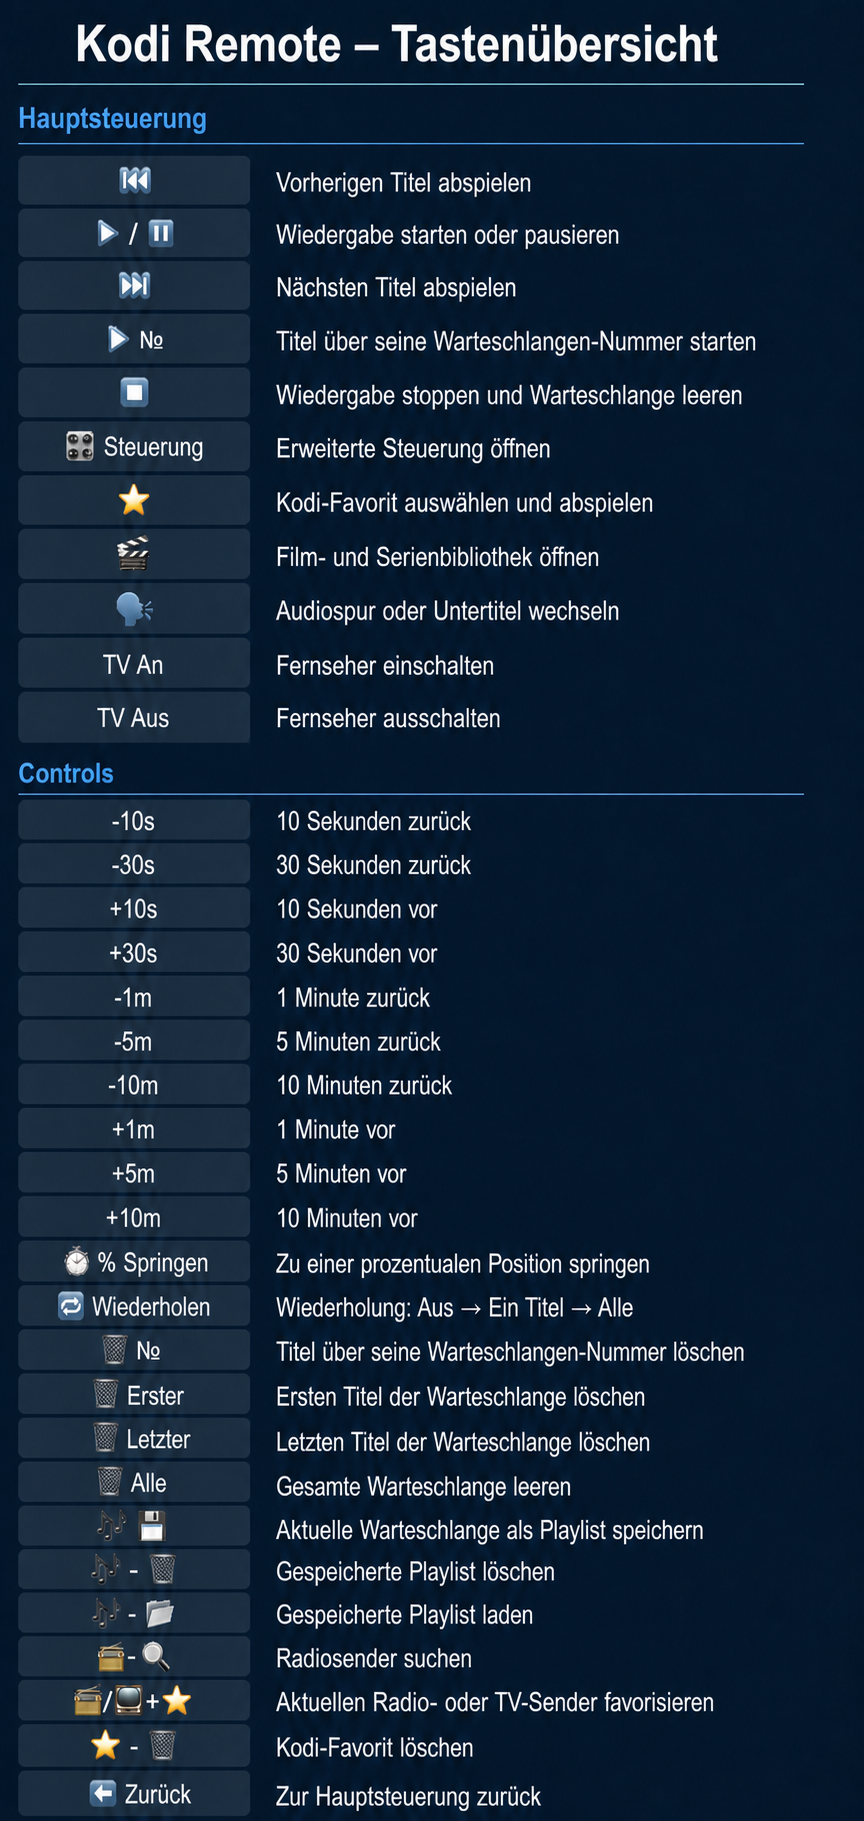
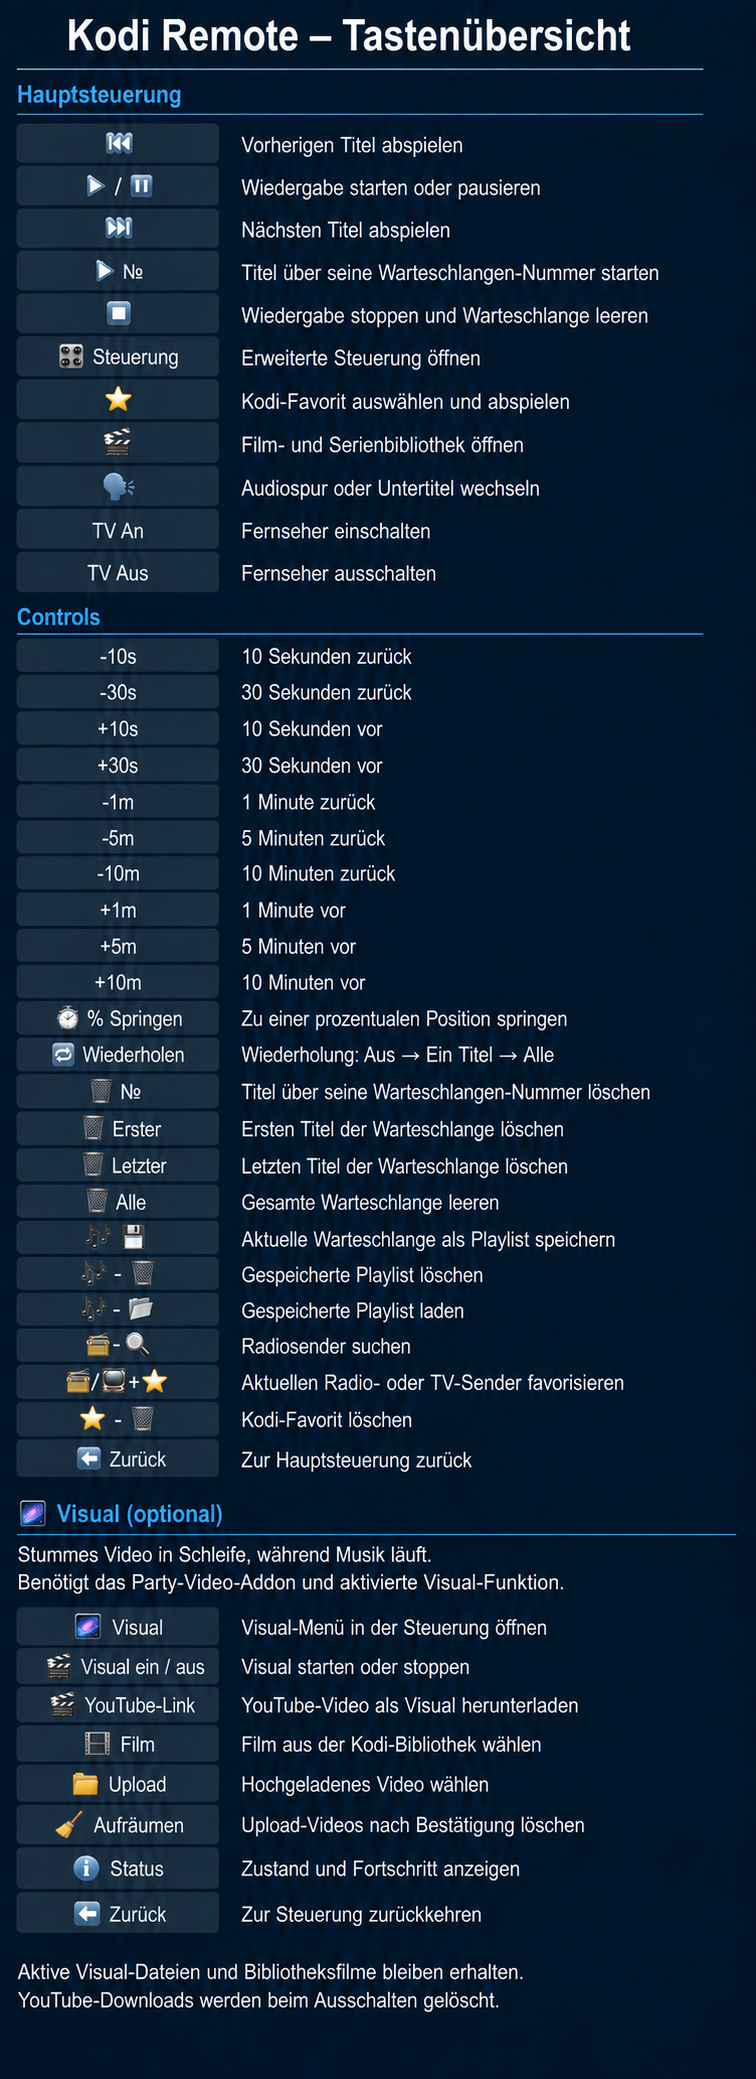
docs: Document the Visual page and refresh button references
Claude-Session: https://claude.ai/code/session_013HfAk942FJDZBgmta9n6gp

Changed region(s): [[0.0, 0.0, 0.9127, 1.0], [0.791, 0.5228, 0.8519, 0.5535]]

diff --git a/README.md b/README.md
@@ -101,6 +101,17 @@ Enable Kodi's web server under `Settings -> Services -> Control`. `KODI_USER`,
 `KODI_PASS` and `KODI_PORT` must exactly match that configuration; otherwise the
 bot can show a queued title but cannot start playback or display its runtime.
 
+The optional [Party Video](https://github.com/willheisenberg/visualization-partyvideo)
+addon shows a muted video in an endless loop while music plays. Install it on the
+Kodi host and set `PARTYVIDEO_ENABLED=true` to get the 🌌 Visual page in the panel.
+The default is `false`; enable it only after installing the addon. Recreate the
+bot container after changing the flag so the new environment takes effect.
+The page accepts YouTube links, library movies and uploaded videos, and displays
+install/download progress and playback errors in a message that updates itself.
+Upload cleanup requires confirmation and only removes videos directly inside the
+upload folder; library files, symlinks and the active visual source are preserved.
+An upload kept for a visual can be removed using this menu after stopping it.
+
 The SoundCloud and YouTube addons are required for their respective links. The
 YouTube addon also needs its own API key, client ID and client secret configured
 inside Kodi. Those YouTube credentials are not read from the bot's `.env`.
@@ -210,6 +221,7 @@ services:
       PANEL_SHOW_DISPLAY: "true"
       PANEL_SHOW_AIRPLAY: "true"
       PANEL_SHOW_HA: "true"
+      PARTYVIDEO_ENABLED: "false"
       CEC_HOST: "172.17.0.1"
       DENON_HOST: ""
       DEBUG_WS: "1"
@@ -340,6 +352,12 @@ Notes:
   `PANEL_SHOW_AIRPLAY` and `PANEL_SHOW_HA` accept `true` or `false`. They hide
   only their corresponding panel sections; disabled Hifi, AirPlay and volume
   sections are also omitted from the status line.
+- `PARTYVIDEO_ENABLED` accepts `true` or `false` and defaults to `false`. It adds
+  the 🌌 Visual page to the controls panel, which drives the separate
+  [Party Video](https://github.com/willheisenberg/visualization-partyvideo) Kodi
+  addon: a muted video looping behind your music, from a YouTube link, a library
+  movie or a video uploaded to the chat. Leave it off unless that addon is
+  installed on the Kodi host — without it the buttons have nothing to talk to.
 - `TELEGRAM_LOCAL_MODE=1` enables support for a local `telegram-bot-api` server, which is required if the bot should download Telegram uploads larger than 20 MB.
 - `TELEGRAM_BASE_URL` optionally overrides the Telegram API endpoint, for example `http://127.0.0.1:8081/bot`.
 - `TELEGRAM_BASE_FILE_URL` optionally overrides the Telegram file endpoint, for example `http://127.0.0.1:8081/file/bot`.
@@ -372,7 +390,7 @@ Notes:
 - `ACME_EMAIL` is the email address Caddy uses for Let's Encrypt certificate management.
 - `CADDYFILE_PATH` optionally overrides the host path mounted as `/etc/caddy/Caddyfile`.
 - If `HA_WEBAPP_URL` is not set, the bot falls back to `MEDIA_BASE_URL/app/ha-color` when `MEDIA_BASE_URL` itself is `https://`.
-- If `HA_HOST` is set, a `🏠 Home Assistant` button appears in the panel with options to toggle the light, open `Live Color`, set a hex color, adjust brightness, save the current color, load saved colors, and delete saved colors.
+- If `HA_HOST` is set, a `🏠 Home Assistant` button appears in the panel with options to toggle the light, open `Live Color`, set a hex color, adjust brightness, save the current color, load saved colors, and delete saved colors. The Home Assistant menu replaces the current panel in place; `⬅ Back` restores the main controls. Color presets use the same message, and playback updates keep the open menu visible.
 - In private chats the HA menu shows the embedded `Live Color` Mini App button directly.
 - In group chats the HA menu shows `Open Live Color`, which uses Telegram's Main Mini App deep link and therefore depends on the BotFather Mini App configuration above.
 
